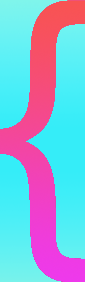
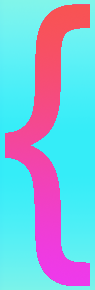
add task skobki

diff --git a/HomeWork/HW2/Add/Skobki/skobka.html b/HomeWork/HW2/Add/Skobki/skobka.html
@@ -9,8 +9,8 @@
 </head>
 <body>
     <img src="skobka_all.jpeg" alt="">
-    <img style="position: fixed; top: 20px; left: 20px;" src="skobka_l.png" alt="">
-    <img src="skobka_r.png" alt="">
+    <img style="position: absolute; top: 198px; left: 112px;" src="skobka_l.png" alt="">
+    <img style="position: absolute; top: 198px; left: 308px;" src="skobka_r.png" alt="">
     
     
 </body>
